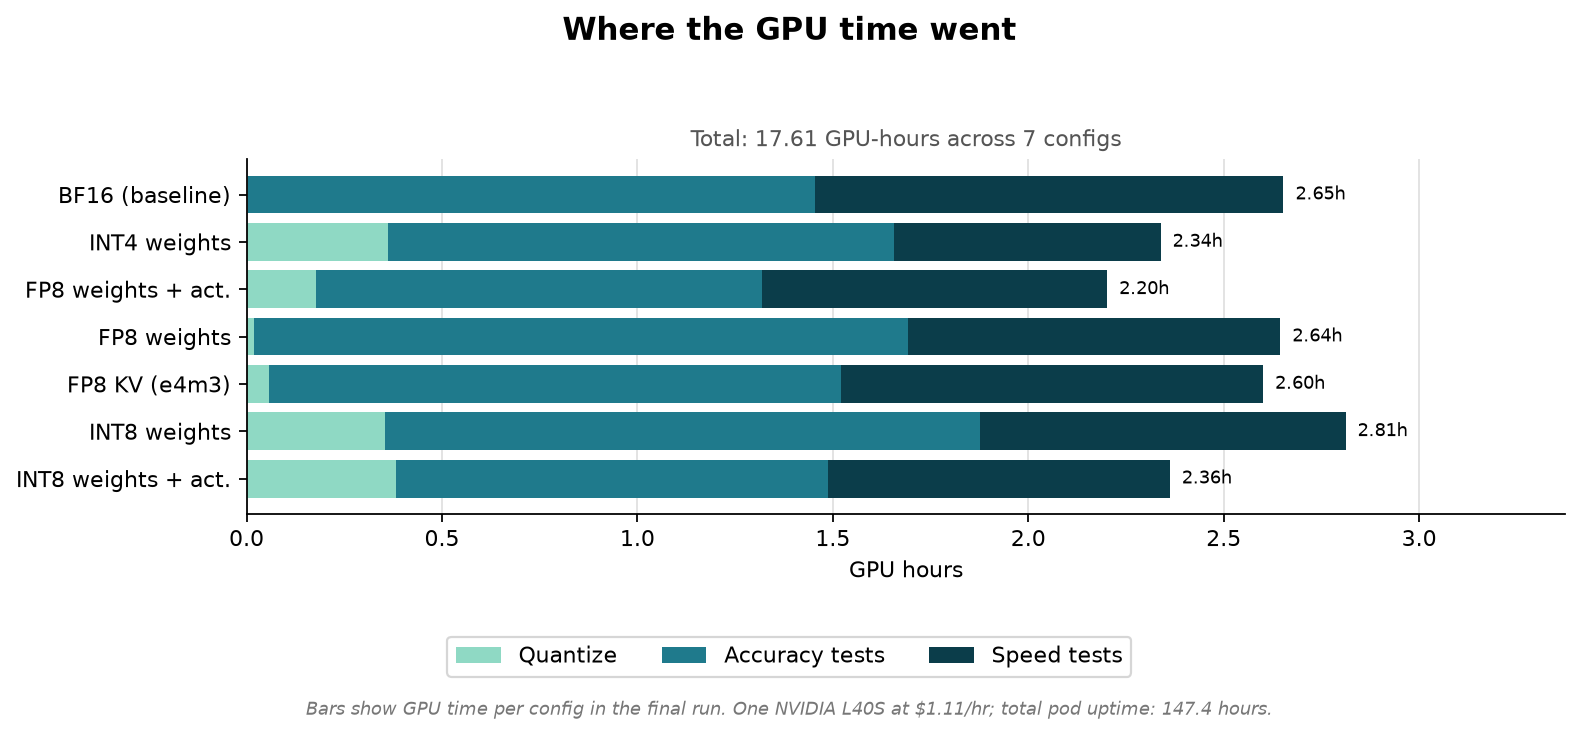
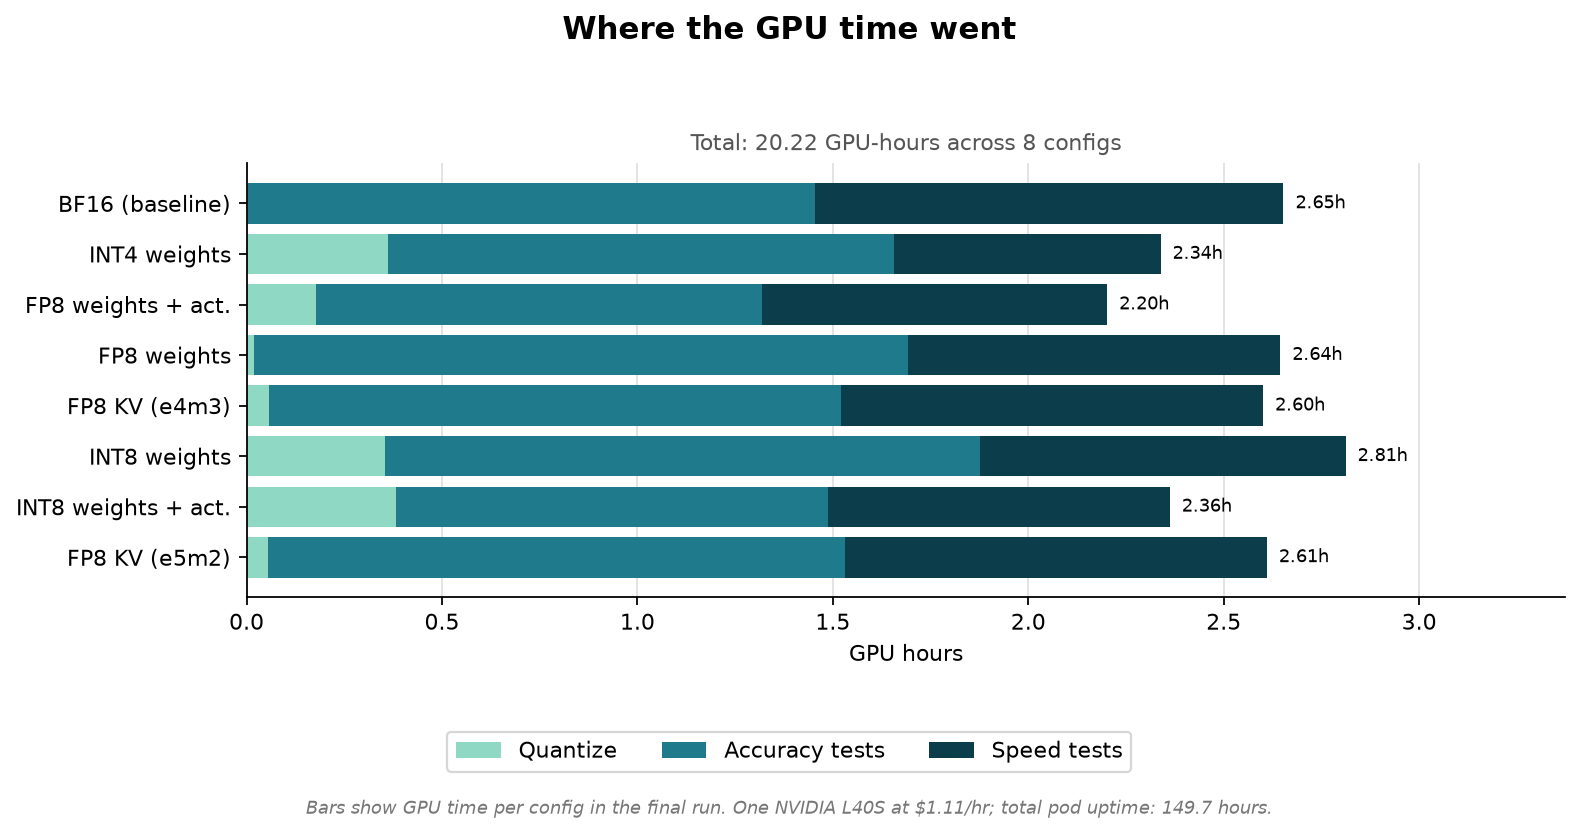
Update article figures for final full run (8/8 configs)

diff --git a/results/article/summary.md b/results/article/summary.md
@@ -7,5 +7,6 @@
 | FP8 KV (e4m3) | 0.00% | -80.59 | 23.79% | -50.46 | 935,200 | +100% | 49.5 | 1892.7 | 1.01x | 1.02x | 11947.6 | 1.03x | 2.0 | 2.60 |
 | INT8 weights | 78.32% | -2.27 | 74.18% | -0.07 | 573,952 | +23% | 80.3 | 3075.2 | 1.63x | 1.65x | 9750.5 | 0.84x | 4.2 | 2.81 |
 | INT8 weights + act. | 79.98% | -0.61 | 73.76% | -0.49 | 569,072 | +22% | 74.0 | 2965.7 | 1.51x | 1.59x | 16052.5 | 1.38x | 3.5 | 2.36 |
+| FP8 KV (e5m2) | 0.00% | -80.59 | 24.33% | -49.92 | 935,200 | +100% | 49.5 | 1912.0 | 1.01x | 1.03x | 12092.9 | 1.04x | 1.9 | 2.61 |
 
-**Total: 17.61 GPU-hours, $19.55 at $1.11/hr**
+**Total: 20.22 GPU-hours, $22.45 at $1.11/hr**
